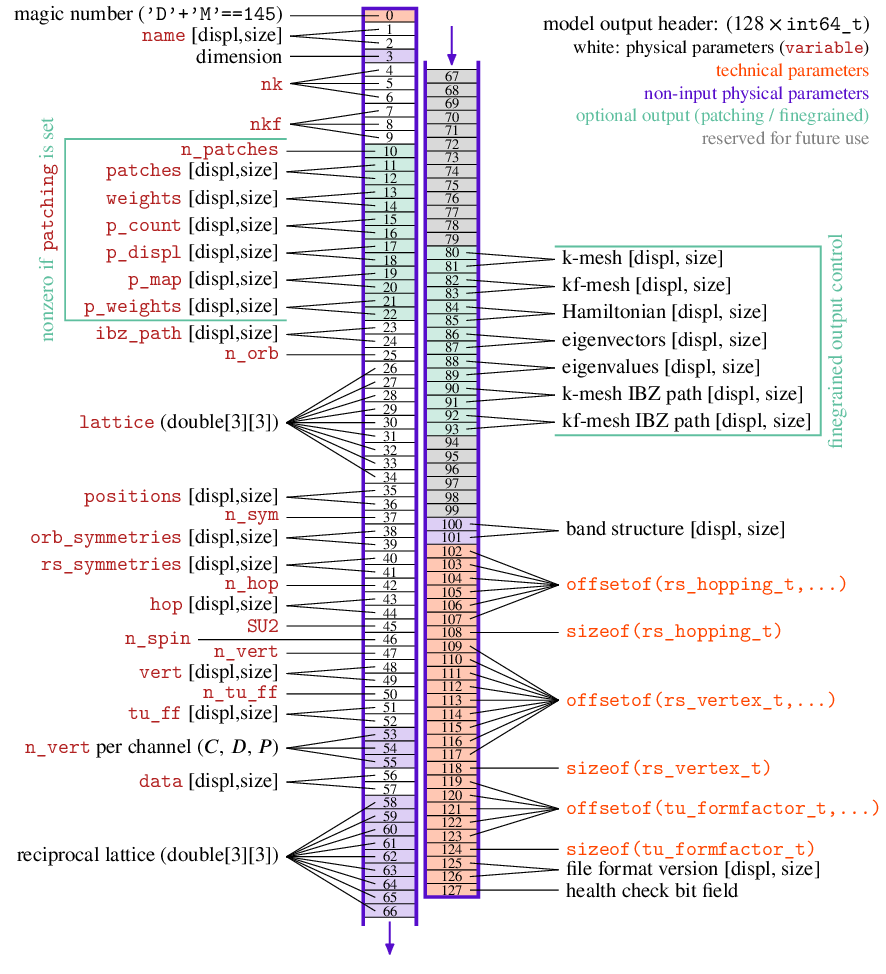
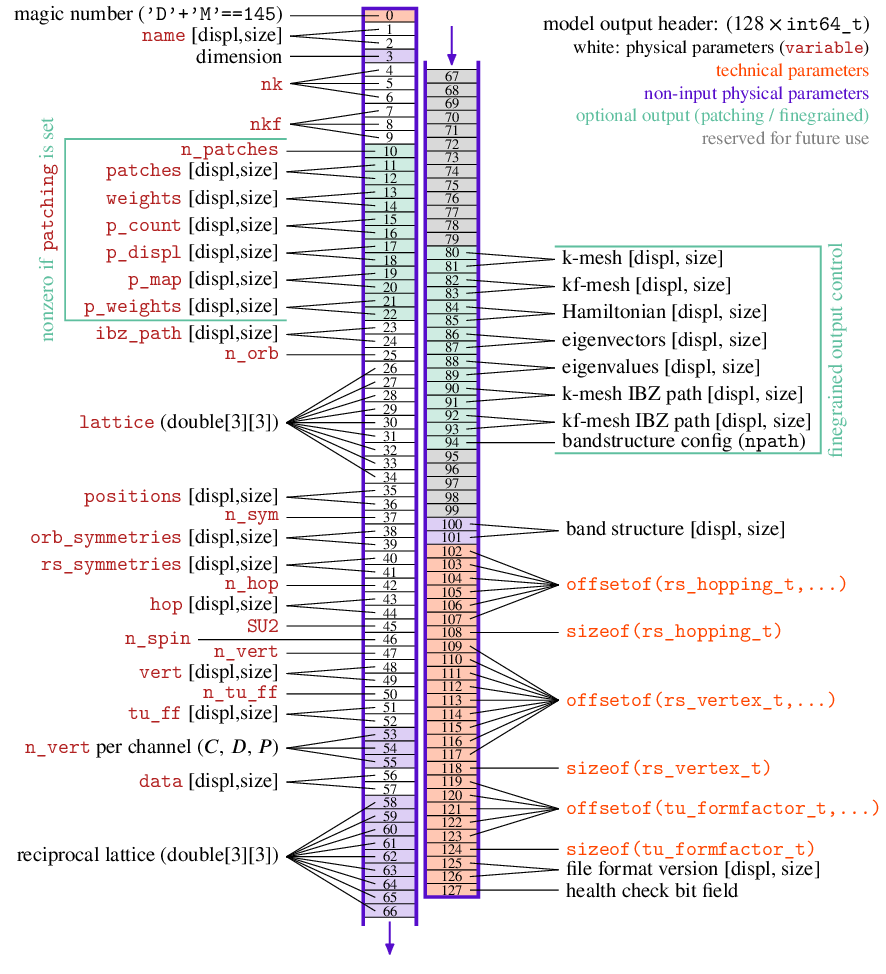
model output: can control #pts on IBZ path via config struct

Changed region(s): [[0.6095, 0.2464, 0.9752, 0.4928]]

diff --git a/util/output.py b/util/output.py
@@ -1,6 +1,7 @@
 #!/usr/bin/env python3
 # -*- coding: utf-8 -*-
 import numpy as np
+import math
 
 # Namespace: dvg-output
 # python library to read diverge output files
@@ -44,7 +45,6 @@ def version_compare( A, B ):
 # this is due to some weird numpy version checking for the contents of a buffer
 def numpy_fromfile( fname, **kwargs ):
     return np.frombuffer( open(fname, "rb").read(), **kwargs )
-    #return np.fromfile( fname, **kwargs )
 
 def qmatrices( data, displ, count, nq ):
     data_d = data[displ:displ+count]
@@ -155,11 +155,14 @@ class diverge_model:
     U: eigenvectors on fine kmesh (kfmesh.shape[0], n_spin*n_orb, n_spin*n_orb)
     E: eigenvalues on fine kmesh (kfmesh.shape[0], n_spin*n_orb)
 
+    npath: configuration for bandstructure (nonzero after v0.4.x) if -1, used
+           kf_ibz_path indices. otherwise, bandstructure array is shaped as
+           below
     bandstructure: banstructure along irreducible path, with irreducible path
-                   in last three indices ((ibz_path.size-1)*300+1, n_spin*n_orb + 3)
+                   in last three indices. shape usually given as
+                   ((ibz_path.size-1)*300+1, n_spin*n_orb + 3) if not specified
+                   differently in model output call.
     """
-
-    # TODO(lk) need to update model once model in code is finished
 
     def _displ_count( self, i_d ):
         return self._f_bytes[self._f_header[i_d]:self._f_header[i_d]+self._f_header[i_d+1]]
@@ -261,6 +264,7 @@ class diverge_model:
         self.kc_ibz_path = k_ibz_path( self._displ_count( 90 ) )
         self.kf_ibz_path = k_ibz_path( self._displ_count( 92 ) )
 
+        self.npath = self._head(94) # to see what the config actually is
         self.bandstructure = self._displ_count( 100 ).view(
                 np.float64 ).reshape((-1,self.n_spin*self.n_orb + 3))
 
@@ -747,6 +751,74 @@ def read( fname ):
     else:
         print(f"magic number {magic} ('{chr(magic)}') unknown")
         return None
+
+# Function: bandstructure_bands
+# return the bands array (nk,nb) from the band  structure obtained from a
+# <diverge_model>. Useful for plotting (for example see <bandstructure_xvals>).
+def bandstructure_bands( model ):
+    return model.bandstructure[:,:-3]
+
+# Function: bandstructure_kpts
+# return the momentum points (nk,3) from the band structure obtained from a
+# <diverge_model>. Useful for plotting and post-processing.
+def bandstructure_kpts( model ):
+    return model.bandstructure[:,-3:]
+
+# Function: bandstructure_xvals
+# calculate the differential distance between the momentum points from the band
+# structure obtained from a <diverge_model>. Useful for plotting in conjuction
+# with <bandstructure_bands> and <bandstructure_ticks>.
+# === Python ===
+# import diverge.output as do
+# import matplotlib.pyplot as plt
+# M = do.read("model.dvg")
+# b = do.bandstructure_bands(M)
+# x = do.bandstructure_xvals(M)
+# plt.plot( x, b, color='black' )
+# plt.xticks( do.bandstructure_ticks(M) )
+# # need to set the labels manually as they are not known to the model
+# plt.show()
+# ==============
+def bandstructure_xvals( model ):
+    K = bandstructure_kpts(model)
+    return np.concatenate( [[0], np.cumsum(np.sqrt((np.diff(K,axis=0)**2).sum(axis=1)))] )
+
+# Function: bandstructure_ticks
+# returns the xticks used for band structure plots from a <diverge_model>.
+# Useful in conjuction with <bandstructure_xvals>.
+def bandstructure_ticks( model ):
+    x = bandstructure_xvals( model )
+    n_bandstruct = x.shape[0]
+    n_ibz_path = model.ibz_path.shape[0]
+
+    if n_ibz_path <= 1:
+        return None
+
+    ticks = []
+
+    if model.npath == 0: # we don't know what the call was. trying to guess.
+        n_per_tick_float = (n_bandstruct - 1)/(n_ibz_path-1)
+        n_per_tick_int = (n_bandstruct - 1)//(n_ibz_path-1)
+        if math.isclose(n_per_tick_int, n_per_tick_float):
+            ticks += list( x[ np.arange(n_ibz_path) * n_per_tick_int ] )
+        else:
+            if not model.kf_ibz_path is None:
+                n_per_segment = model.kf_ibz_path[0]
+                ticks += list( x[np.cumsum( np.concatenate( [[0], n_per_segment-1] ) )] )
+
+    elif model.npath >= 1:
+        ticks += list( x[ np.arange(n_ibz_path) * model.npath ] )
+    elif model.npath == -1:
+        if not model.kf_ibz_path is None:
+            n_per_segment = model.kf_ibz_path[0]
+            ticks += list( x[np.cumsum( np.concatenate( [[0], n_per_segment-1] ) )] )
+
+    if len(ticks) == n_ibz_path:
+        return ticks
+    else:
+        return None
+
+
 
 if __name__ == "__main__":
     # mod = read('post.dvg')

diff --git a/src/diverge_model_output.cpp b/src/diverge_model_output.cpp
@@ -184,13 +184,17 @@ char* diverge_model_to_file_finegrained( diverge_model_t* mod, const char* fname
         }
         idx = 94;
 
-        idx = 100;
         index_t *band_indices = NULL, n_band_indices = 0, *n_band_segments = NULL;
         bool use_band_indices = false;
         bool include_bandstructure = false;
+        // precedence behavior: using config value only if it is *not* zero:
+        int npath = cfg->npath == 0 ? h_diverge_model_nbandstructure : cfg->npath;
+        ibuf[idx++] = npath; // 94
+
+        idx = 100;
         if (mod->n_ibz_path > 0) {
             // bandstructure, including the k coordinates *after* the bands
-            if (h_diverge_model_nbandstructure == -1 && mod->internals->has_common_internals) {
+            if (npath == -1 && mod->internals->has_common_internals) {
                 mpi_vrb_printf( "using fine kmesh data for band structure\n" );
                 n_band_segments = diverge_kmesh_to_bands( mod, &band_indices, &n_band_indices );
                 if (band_indices != NULL && n_band_indices > 0) {
@@ -201,13 +205,13 @@ char* diverge_model_to_file_finegrained( diverge_model_t* mod, const char* fname
                     mpi_err_printf( "could not find band structure indices, skipping\n" );
                     ADD_ARRAY_TO_IBUF( 0 );
                 }
-            } else if (h_diverge_model_nbandstructure < -1) {
-                mpi_wrn_printf( "invalid value %li for npath\n", h_diverge_model_nbandstructure );
+            } else if (npath < -1) {
+                mpi_wrn_printf( "invalid value %li for npath\n", npath );
                 ADD_ARRAY_TO_IBUF( 0 );
             } else {
                 include_bandstructure = true;
                 ADD_ARRAY_TO_IBUF( sizeof(double) * (mod->n_orb*mod->n_spin + 3) *
-                        ((mod->n_ibz_path-1)*h_diverge_model_nbandstructure + 1) );
+                        ((mod->n_ibz_path-1)*npath + 1) );
             }
         } else {
             ADD_ARRAY_TO_IBUF( 0 );
@@ -349,9 +353,8 @@ char* diverge_model_to_file_finegrained( diverge_model_t* mod, const char* fname
                         out[cnt++] = kf[band_indices[i]*3+d];
                 }
             } else {
-                mpi_vrb_printf("generating bandstructure with %li points per segment\n",
-                        h_diverge_model_nbandstructure );
-                generate_bandstructure( mod, (double*)(buf+ibuf[100]), h_diverge_model_nbandstructure );
+                mpi_vrb_printf("generating bandstructure with %li points per segment\n", npath );
+                generate_bandstructure( mod, (double*)(buf+ibuf[100]), npath );
             }
         }
 

diff --git a/src/diverge_model_output.h b/src/diverge_model_output.h
@@ -149,7 +149,7 @@ char* diverge_model_to_file( diverge_model_t* mod, const char* fname );
 // Struct: diverge_model_output_conf_t
 // to have fine-grained output control over diverge_model_to_file
 //
-// Members (all bool/int):
+// Members (all integers interpreted as bool if not specified else):
 //
 // kc - coarse kmesh
 // kf - fine kmesh
@@ -160,6 +160,10 @@ char* diverge_model_to_file( diverge_model_t* mod, const char* fname );
 // H - Hamiltonian on fine mesh
 // U - Orbital to band matrices on fine mesh
 // E - energies on fine mesh
+// npath - *integer*. use this as the number of points on the IBZ path (cf.
+//         <diverge_model_output_set_npath>). Only used when nonzero; but then
+//         _with precedence_ over what is/has been set in
+//         <diverge_model_output_set_npath>. possible nonzero values: -1, >=1.
 typedef struct diverge_model_output_conf_t {
     int kc;
     int kf;
@@ -168,6 +172,7 @@ typedef struct diverge_model_output_conf_t {
     int H;
     int U;
     int E;
+    int npath;
 } diverge_model_output_conf_t;
 
 #if !defined(__cplusplus) && !defined(CTYPESGEN)
@@ -180,6 +185,7 @@ static const diverge_model_output_conf_t diverge_model_output_conf_defaults = {
     .H = 0,
     .U = 0,
     .E = 0,
+    .npath = 0,
 };
 #endif // __cplusplus
 
@@ -203,8 +209,6 @@ diverge_model_output_conf_t diverge_model_output_conf_defaults_CPP( void );
 char* diverge_model_to_file_finegrained( diverge_model_t* mod, const char* fname,
         const diverge_model_output_conf_t* cfg );
 
-// TODO(LK) add this to the output config; as additional parameter that doesn't
-// have precedence over sth that's set by the function?
 // Function: diverge_model_output_set_npath
 // set the number of points per IBZ segment for the bandstructure calculation.
 // defaults to DIVERGE_MODEL_NBANDSTRUCTURE (300). must be called before

diff --git a/doc/latex/diverge_model_output.tex b/doc/latex/diverge_model_output.tex
@@ -111,10 +111,10 @@
 
     \EcolorizeBox{100}{102}{Fblue!20!white}
 
-    \EcolorizeBox{80}{94}{Faqua!30!white}
+    \EcolorizeBox{80}{95}{Faqua!30!white}
 
     \EcolorizeBox{67}{80}{gray!30!white}
-    \EcolorizeBox{94}{100}{gray!30!white}
+    \EcolorizeBox{95}{100}{gray!30!white}
 
     \foreach \idx in {0,1,...,60} {
       \tikzmath{
@@ -216,8 +216,9 @@
     \EbracketTwo{88}{89}{\ipd{eigenvalues}}
     \EbracketTwo{90}{91}{\ipd{k-mesh IBZ path}}
     \EbracketTwo{92}{93}{\ipd{kf-mesh IBZ path}}
+    \EbracketOne{94}{bandstructure config (\texttt{npath})}
     \tikzmath{\coordA = (Ecell80.east) + (0.1,0.007);
-              \coordB = (Ecell93.east) + (0.1,-0.007);}
+              \coordB = (Ecell94.east) + (0.1,-0.012);}
     \tikzmath{coordinate \cbufA;
               coordinate \cbufB;
               \cbufA = (\coordA) + (0.3,0);

diff --git a/examples/python_tutorial/emergent-2-plot.py b/examples/python_tutorial/emergent-2-plot.py
@@ -7,9 +7,9 @@ import numpy as np
 M = do.read('model.dvg')
 
 fig = plt.figure(layout="constrained", figsize=(4,3))
-xvals = np.concatenate( [[0], np.cumsum(np.sqrt((np.diff(M.bandstructure[:,1:],axis=0)**2).sum(axis=1)))] )
-plt.plot( xvals, M.bandstructure[:,:-3], c='navy' )
-plt.xticks( [xvals[0], xvals[300], xvals[600], xvals[900]], [r'$\Gamma$', r'$M$', r'$K$', r'$\Gamma$'] )
-plt.xlim( xvals[0], xvals[-1] )
+x = do.bandstructure_xvals(M)
+plt.plot( x, do.bandstructure_bands(M), color='navy' )
+plt.xticks( do.bandstructure_ticks(M), [r'$\Gamma$', r'$M$', r'$K$', r'$\Gamma$'] )
+plt.xlim( x[0], x[-1] )
 plt.ylabel( r'$\epsilon_b({\bf k})$' )
 plt.show()

diff --git a/util/__init__.py b/util/__init__.py
@@ -863,7 +863,7 @@ if not _libs["divERGe"] is None:
     class struct_model_output_conf_t(Structure):
         pass
     struct_model_output_conf_t.__slots__ = [
-        'kc', 'kf', 'kc_ibz_path', 'kf_ibz_path', 'H', 'U', 'E',
+        'kc', 'kf', 'kc_ibz_path', 'kf_ibz_path', 'H', 'U', 'E', 'npath',
     ]
     struct_model_output_conf_t._fields_ = [
         ('kc', c_int),
@@ -873,6 +873,7 @@ if not _libs["divERGe"] is None:
         ('H', c_int),
         ('U', c_int),
         ('E', c_int),
+        ('npath', c_int),
     ]
     model_output_conf_t = struct_model_output_conf_t
 

diff --git a/examples/python_tutorial/emergent-3-model-details.py b/examples/python_tutorial/emergent-3-model-details.py
@@ -95,7 +95,7 @@ if diverge.model_validate( model ):
 diverge.model_internals_common( model )
 
 # write to file
-checksum = diverge.model_to_file( model, params_frg['model_output'] )
+checksum = diverge.model_to_file_PY( model, params_frg['model_output'], kf_ibz_path=1, npath=-1 )
 diverge.mpi_py_eprint( "wrote model to file %s (%s)" % (params_frg['model_output'], checksum) )
 
 # free resources
